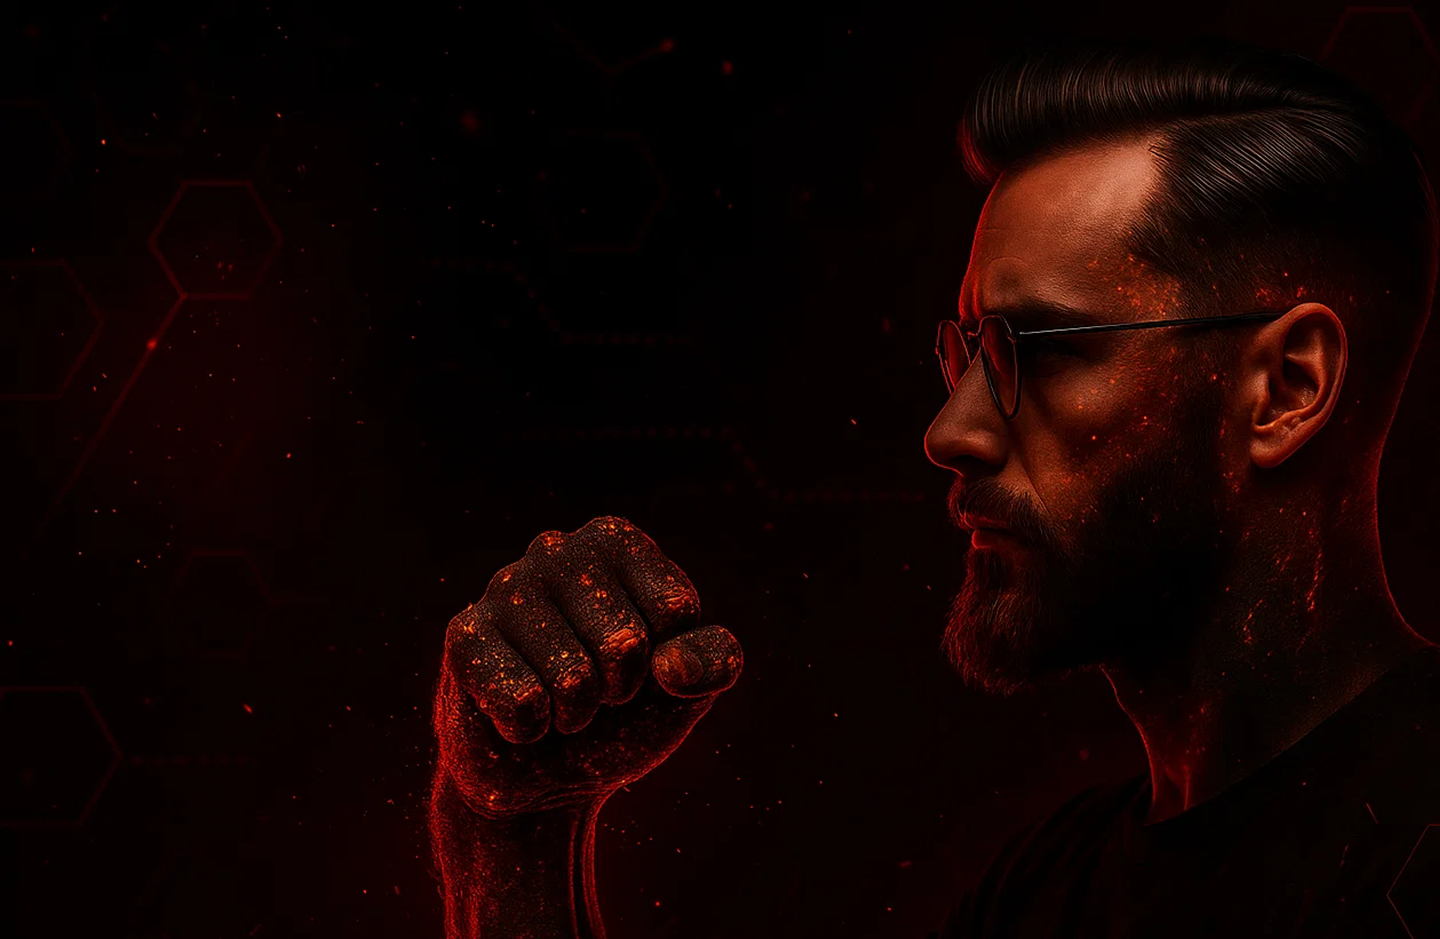
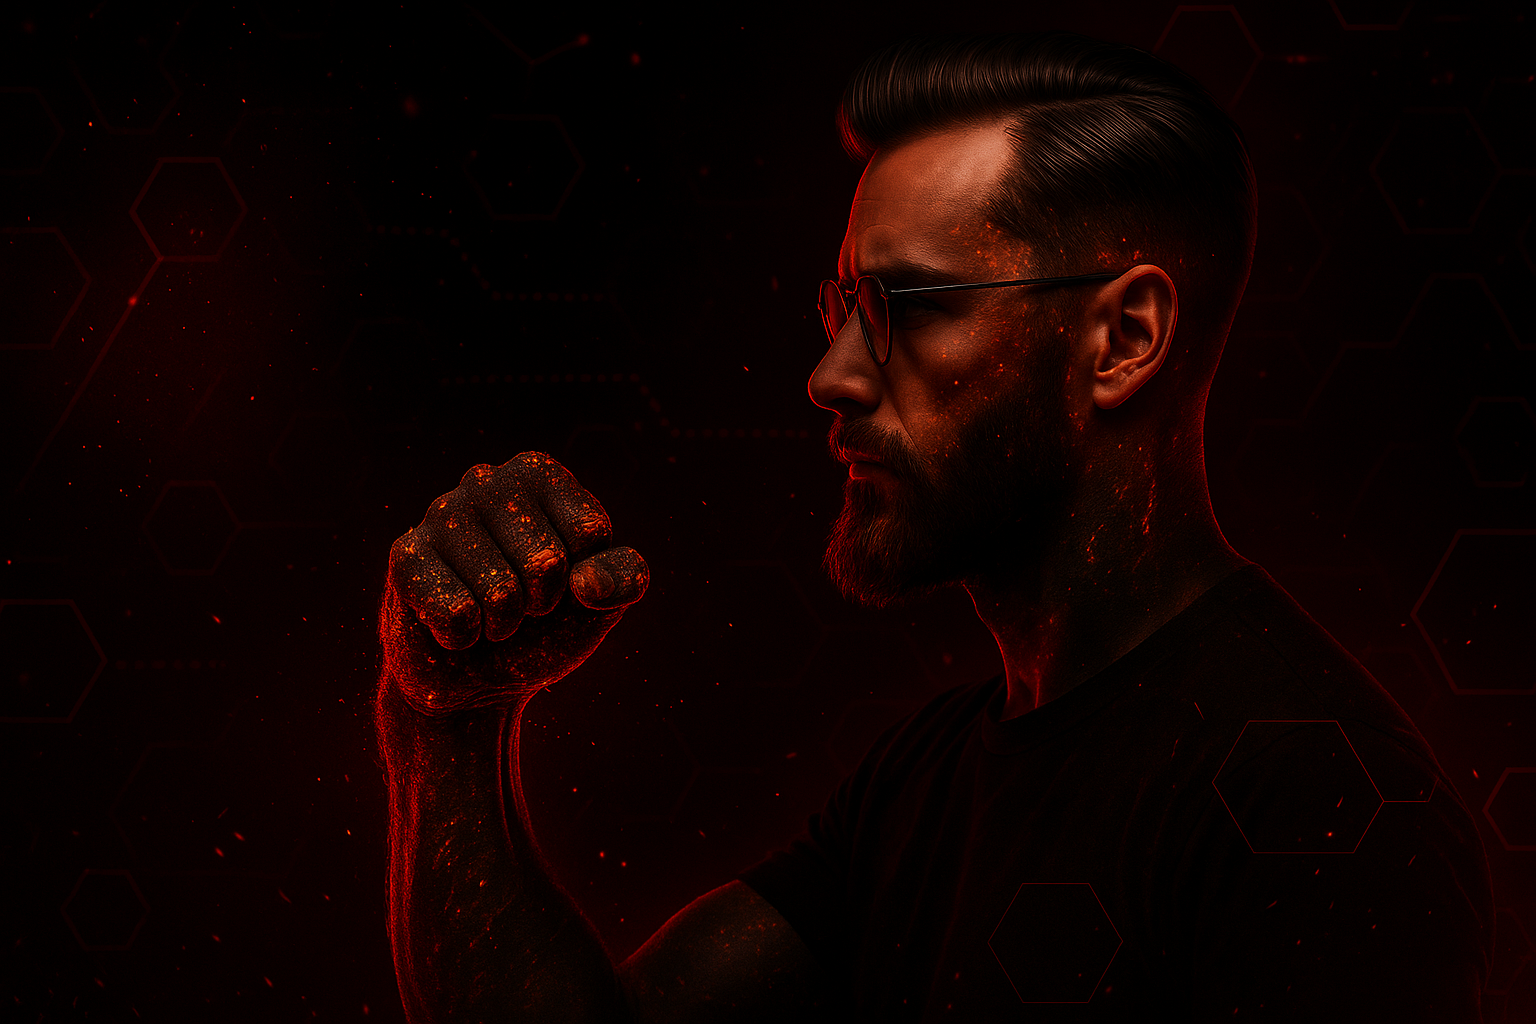
update sections and componentes

diff --git a/src/components/ui/ListDropdown.jsx b/src/components/ui/ListDropdown.jsx
@@ -1,12 +1,25 @@
-import React from "react";
-import { useState, useRef, useEffect } from "react";
-import { IconChevronDown, IconChevronUp } from '@tabler/icons-react';
+import React, { useState, useRef, useEffect } from "react";
+import { IconChevronDown } from "@tabler/icons-react";
+import gsap from "gsap";
 
 function ListDropdown({ title, items, NavList }) {
   const [isOpen, setIsOpen] = useState(false);
   const dropdownRef = useRef(null);
+  const menuRef = useRef(null);
+  const iconRef = useRef(null);
+  const closeTimeoutRef = useRef(null);
 
-  const toggleDropdown = () => setIsOpen(!isOpen);
+  const handleMouseEnter = () => {
+    clearTimeout(closeTimeoutRef.current); // cancela fechamento se voltar o mouse
+    setIsOpen(true);
+  };
+
+  const handleMouseLeave = () => {
+    // atraso antes de fechar
+    closeTimeoutRef.current = setTimeout(() => {
+      setIsOpen(false);
+    }, 200); // 200ms de delay
+  };
 
   useEffect(() => {
     function handleClickOutside(event) {
@@ -18,27 +31,66 @@ function ListDropdown({ title, items, NavList }) {
     return () => document.removeEventListener("mousedown", handleClickOutside);
   }, []);
 
+  useEffect(() => {
+    if (isOpen) {
+      gsap.fromTo(
+        menuRef.current,
+        { opacity: 0, scale: 0.95, y: -8 },
+        { opacity: 1, scale: 1, y: 0, duration: 0.25, ease: "power2.out" }
+      );
+
+      gsap.to(iconRef.current, {
+        rotate: 180,
+        duration: 0.25,
+        ease: "power2.out"
+      });
+    } else {
+      gsap.to(menuRef.current, {
+        opacity: 0,
+        scale: 0.95,
+        y: -8,
+        duration: 0.2,
+        ease: "power2.in"
+      });
+
+      gsap.to(iconRef.current, {
+        rotate: 0,
+        duration: 0.25,
+        ease: "power2.in"
+      });
+    }
+  }, [isOpen]);
+
   return (
-    <div className="relative inline-block text-left text-lg" ref={dropdownRef}>
+    <div
+      className="relative inline-block text-left text-lg"
+      ref={dropdownRef}
+      onMouseEnter={handleMouseEnter}
+      onMouseLeave={handleMouseLeave}
+    >
       <button
-        onClick={toggleDropdown}
-        className={`flex items-center gap-1 ${NavList}`}
+        className={`flex items-center gap-1 ${NavList} transition-colors hover:text-[#B91C0A] transform duration-120`}
       >
-        {title} <IconChevronUp stroke={2} size={15}/>
+        {title}
+        <span ref={iconRef}>
+          <IconChevronDown stroke={2} size={15} />
+        </span>
       </button>
 
-      {isOpen && (
-        <div className="absolute mt-2 w-48 bg-white border border-gray-200 rounded-lg p-1 shadow-lg z-10">
-          {items.map((item, index) => (
-            <button
-              key={index}
-              className="block text-black text-start px-4 py-2 w-[100%] text-gray-70 hover:bg-[#00000033] transition rounded-lg font-medium cursor-pointer"
-            >
-              {item}
-            </button>
-          ))}
-        </div>
-      )}
+      <div
+        ref={menuRef}
+        style={{ pointerEvents: isOpen ? "auto" : "none" }}
+        className="absolute mt-2 w-48 backdrop-blur-md bg-white/60 border border-white/20 rounded-xl p-1 shadow-xl z-10 origin-top"
+      >
+        {items.map((item, index) => (
+          <button
+            key={index}
+            className="block w-full text-start px-4 py-2 text-gray-800 hover:bg-white/30 rounded-lg font-medium transition-colors cursor-pointer"
+          >
+            {item}
+          </button>
+        ))}
+      </div>
     </div>
   );
 }

diff --git a/src/components/ui/CoursesCarousel.jsx b/src/components/ui/CoursesCarousel.jsx
@@ -1,5 +1,10 @@
 import { useRef, useState } from "react";
 import marketing from "../../assets/marketing.png"
+import progamacao from "../../assets/progamacao.png"
+import film from "../../assets/film.png"
+import fotografiaedesign from "../../assets/fotografiaedesign.png"
+import design from "../../assets/design.png"
+import kids from "../../assets/kids.png"
 
 export default function CoursesCarousel() {
   const courses = [
@@ -7,13 +12,13 @@ export default function CoursesCarousel() {
       title: "Programação Full Stack IA",
       category: "PROGRAMAÇÃO",
       duration: "13 MESES",
-      img: marketing
+      img: progamacao
     },
     {
       title: "Curso Design Full Stack IA",
       category: "MARKETING",
       duration: "13 MESES",
-      img: marketing
+      img: design
     },
     {
       title: "Marketing Digital IA",
@@ -25,19 +30,19 @@ export default function CoursesCarousel() {
       title: "Fotografia Design",
       category: "PROGRAMAÇÃO",
       duration: "12 MESES",
-      img: marketing
+      img: fotografiaedesign
     },
     {
       title: "Film Design",
       category: "PROGRAMAÇÃO",
       duration: "12 MESES",
-      img: marketing
+      img: film
     },
     {
       title: "Kids",
       category: "PROGRAMAÇÃO",
       duration: "12 MESES",
-      img: marketing
+      img: kids
     },
   ];
 
@@ -80,7 +85,7 @@ export default function CoursesCarousel() {
           <img
             src={course.img}
             alt={course.title}
-            className="w-full object-cover rounded-xl"
+            className="w-full  object-cover rounded-xl"
             draggable="false"
           />
           <div className="p-6">

diff --git a/src/pages/Home/section/Resultados.jsx b/src/pages/Home/section/Resultados.jsx
@@ -2,11 +2,11 @@ import React from "react";
 
 export function Date({date, desc}) {
     return <div className="flex flex-col justify-center gap-2">
-            <span className="text-5xl font-bold">
+            <span className="text-5xl font-bold text-shadow-xl">
                 +
                 {date}
             </span>
-            <p className="text-sm font-light">{desc}</p>
+            <p className="text-sm font-light text-shadow-xl">{desc}</p>
         </div>
 }
 
@@ -17,7 +17,7 @@ const Resultados = () => {
                 <h2 className="font-bold text-4xl sm:text-5xl md:text-6xl">Nossos Resultados</h2>
                 <p className="max-w-2xl text-sm md:text-base">Números que mostram a qualidade e o impacto do nosso ensino e a transformação na vida dos nossos alunos.</p>
             </div>
-            <div className="flex flex-col lg:flex-row gap-15">
+            <div className="flex flex-col lg:flex-row gap-15 mb-25">
                 <Date date={"40.000"} desc={"Alunos Formados"}/>
                 <Date date={"23.000"} desc={"Alunos Ativos"}/>
                 <Date date={"380"} desc={"Turmas Ativas"}/>

diff --git a/src/components/layout/Navbar.jsx b/src/components/layout/Navbar.jsx
@@ -3,7 +3,7 @@ import BtnInfo from "../ui/BtnInfo"
 import ListDropdown from "../ui/ListDropdown"
 import logo from "../../assets/logo.png"
 
-const NavList = "text-lg font-medium cursor-pointer"
+const NavList = "text-lg font-medium cursor-pointer hover:text-[#B91C0A] transition duration-120"
 
 const Navbar = () => {
   return (

diff --git a/src/components/ui/Accordion.jsx b/src/components/ui/Accordion.jsx
@@ -5,7 +5,7 @@ const Accordion = ({ question, answer }) => {
   const [isOpen, setIsOpen] = useState(false);
 
   return (
-    <div className="bg-gray-900 text-white rounded-xl shadow-md border border-gray-700 overflow-hidden transition-all duration-300">
+    <div className="bg-[#4D4D4D] text-white rounded-xl shadow-md border overflow-hidden transition-all duration-300">
       <button
         className="flex justify-between items-center w-full p-4 cursor-pointer focus:outline-none"
         onClick={() => setIsOpen(!isOpen)}